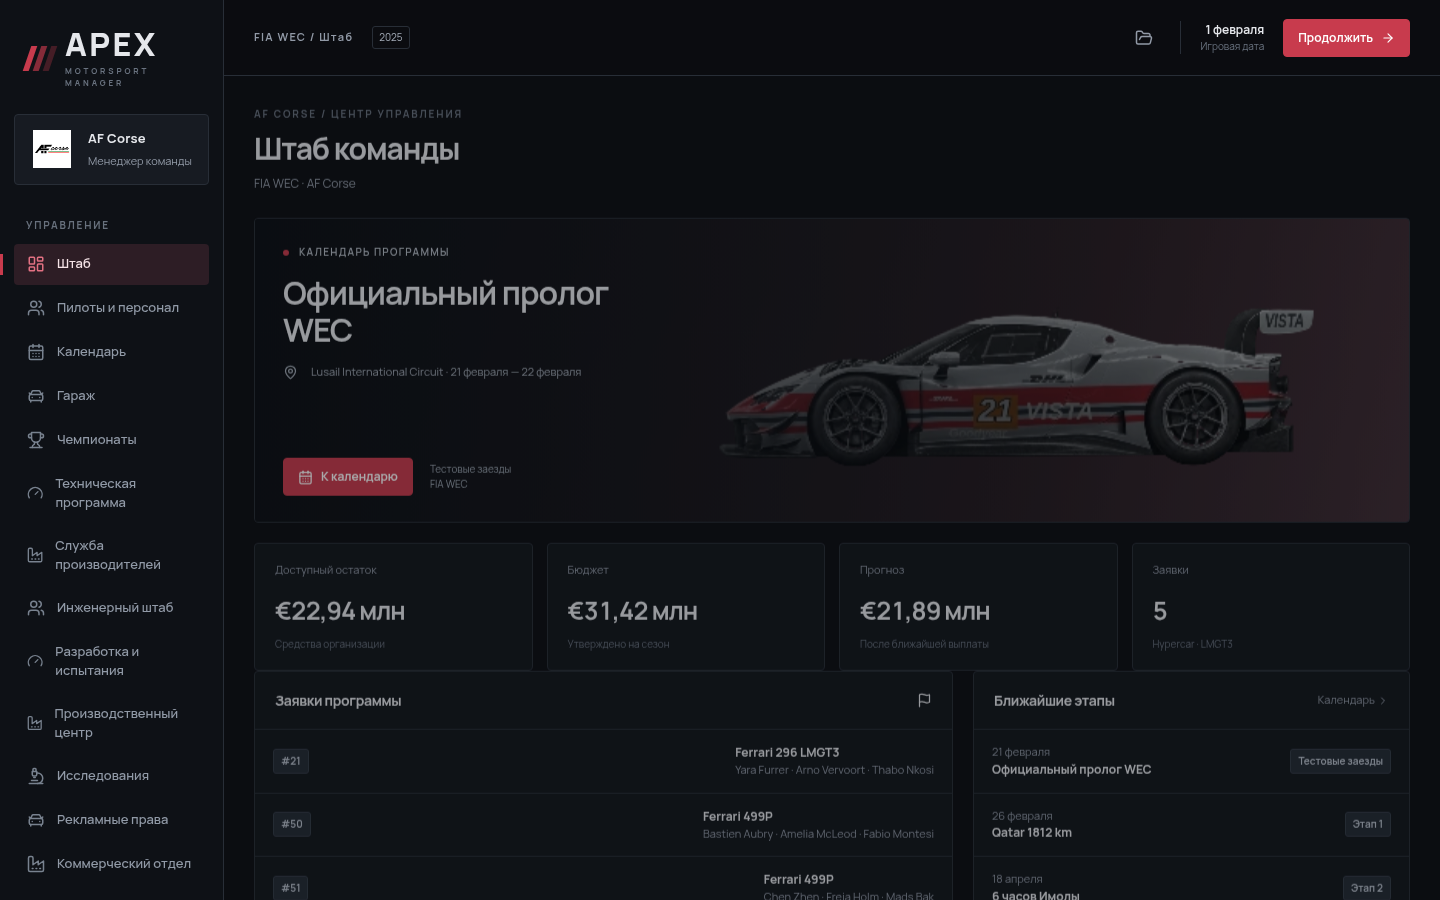
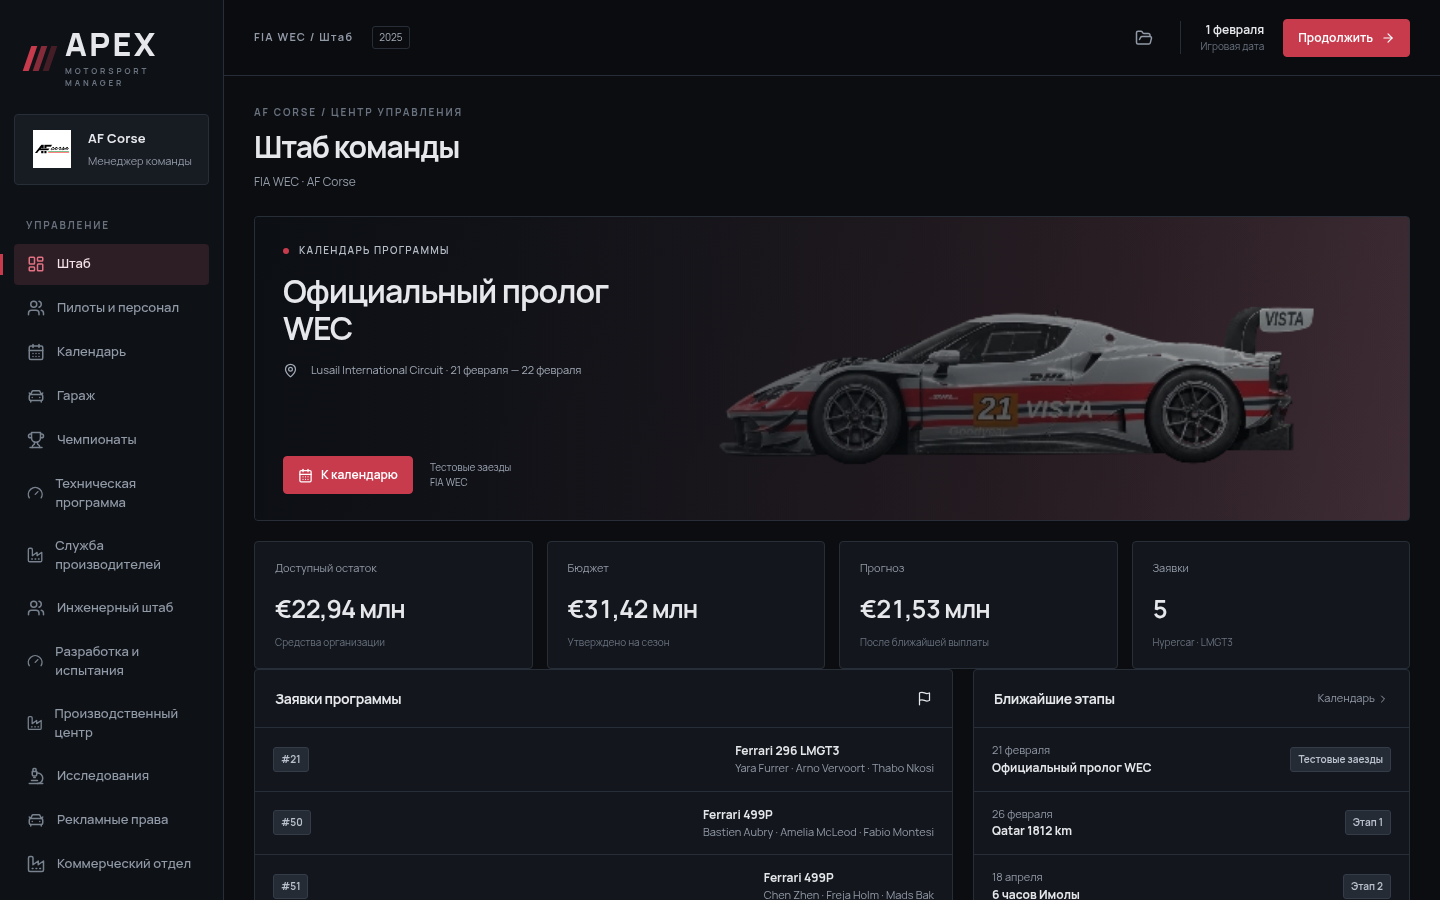
Align racing retainers, junior allowances and market offers with each series

diff --git a/frontend/tests/personnel.spec.ts b/frontend/tests/personnel.spec.ts
@@ -3,6 +3,7 @@ import { expect, test } from '@playwright/test'
 import { join } from 'node:path'
 
 test('Рынок, сравнение и переход пилота GT на свободное место Formula', async ({ page }, info) => {
+  test.setTimeout(90000)
   const errors: string[] = []
   page.on('pageerror', (e) => errors.push(e.message))
   const world = await (await page.request.get('/api/world')).json()
@@ -17,6 +18,11 @@ test('Рынок, сравнение и переход пилота GT на св
   const incumbent = world.names[world.entries['f1-4'].crew[0]]
   const dialog = page.getByRole('dialog')
   const artist = dialog.locator('image[data-layer="appearance"]').first()
+  async function advance() {
+    const response = page.waitForResponse(r => r.url().endsWith('/commands') && r.request().method() === 'POST')
+    await page.getByRole('button', { name: 'Продолжить' }).click()
+    expect((await response).ok()).toBe(true)
+  }
   async function evidence(view: string) {
     await page.evaluate(() => document.fonts.ready)
     expect(await page.evaluate(() => document.documentElement.scrollWidth)).toEqual(
@@ -67,7 +73,7 @@ test('Рынок, сравнение и переход пилота GT на св
   await evidence('terms')
   await dialog.getByRole('button', { name: 'Отправить предложение' }).click()
   await expect(page.locator('.staff-offer')).toContainText('На рассмотрении')
-  await page.getByRole('button', { name: 'Продолжить' }).click()
+  await advance()
   await expect(page.locator('.staff-offer')).toContainText('Встречные условия')
   await page.getByRole('button', { name: 'Рассмотреть условия' }).click()
   await dialog.getByRole('button', { name: 'Подписать договор' }).click()
@@ -79,7 +85,7 @@ test('Рынок, сравнение и переход пилота GT на св
   await expect(dialog.locator('image[data-layer="fitted-fabric"]')).toHaveAttribute('href', oldKit!)
   await expect(dialog).toContainText('ABT Sportsline')
   await page.keyboard.press('Escape')
-  await page.getByRole('button', { name: 'Продолжить' }).click()
+  await advance()
   await page.getByRole('button', { name: 'Состав', exact: true }).click()
   await page.getByLabel('Найти человека').fill(name)
   await page.getByRole('button', { name: new RegExp(name) }).click()

diff --git a/backend/opening/workforce.py b/backend/opening/workforce.py
@@ -132,6 +132,55 @@ def secondary_seats(state, world):
             pool.remove(chosen)
 
 
+def race_salary(state, person, seat, negotiated):
+    """Monthly guaranteed retainer, separate from seat backing and race bonuses."""
+    if person["position"] != "driver" or not seat.get("entry", True):
+        return negotiated
+    # A junior retainer is a racing allowance. Family, academy and sponsor
+    # contributions are booked separately to the racing operator.
+    junior_share = {
+        "kart-okj": 2,
+        "kart-ok": 3,
+        "f4-it": 8,
+        "f4-es": 8,
+        "f4-gb": 8,
+        "freca": 15,
+        "f3": 26,
+        "f2": 52,
+    }
+    series = seat["series"]
+    if series in junior_share:
+        return max(100, negotiated * junior_share[series] // 100)
+    if series not in ("f1", "wec", "dtm"):
+        return negotiated
+    # The top class buys scarce race seats at a different scale from GT and
+    # endurance. Reputation and driving experience affect an individual's market.
+    base_eur, premium = {"f1": (55000, 82), "wec": (5500, 4), "dtm": (4500, 3)}[
+        seat["series"]
+    ]
+    standing = max(
+        0,
+        person["skills"]["Темп"]
+        + person["reputation"]
+        + min(25, person["experience"])
+        - 103,
+    )
+    share = min(
+        130,
+        max(
+            74,
+            state["accounts"][seat["org"]]["budget_cents"]
+            // (125000000 if seat["series"] == "f1" else 14000000),
+        ),
+    )
+    if series == "wec" and seat.get("entry"):
+        from ..catalog import lineup_for
+
+        if lineup_for(state)["entries"][seat["entry"]]["category"] == "LMGT3":
+            share = share * 55 // 100
+    return (base_eur + premium * standing * standing) * share + negotiated
+
+
 def contracts_and_people(state, world):
     varied_profiles(state, world)
     secondary_seats(state, world)
@@ -164,6 +213,7 @@ def contracts_and_people(state, world):
                 * (50 + p["reputation"] // 2 + min(28, p["experience"]) + n % 38)
                 // 100
             )
+            row["salary_cents"] = race_salary(state, p, seat, row["salary_cents"])
             row["buyout_cents"] = (
                 0
                 if role == "owner"

diff --git a/backend/employment.py b/backend/employment.py
@@ -112,9 +112,16 @@ def ask(state, catalog, p, seat):
             interest += 70 - mandate["satisfaction"]
         if mandate["goal"] != p["management"]["style"]:
             interest += 20
-    return max(
+    demand = max(
         10000, (profile["rating"] * 45 + interest * 6 + p["reputation"] * 8) * 100
     )
+    from .opening import VERSION
+
+    if state.get("opening") == VERSION:
+        from .opening.workforce import race_salary
+
+        return race_salary(state, p, seat, demand)
+    return demand
 
 
 def intersects(row, start, end):

diff --git a/tests/opening_review.py b/tests/opening_review.py
@@ -100,6 +100,9 @@ def review(state, world):
         entrants = {r["person"] for a, r in roster if a["entry"]}
         per_series[series] = dict(
             main=len(entrants),
+            race_pay_cents=amounts(
+                r["salary_cents"] for seat, r in roster if seat["entry"]
+            ),
             funded=len(entrants & {f["person"] for f in funding}),
             hierarchy=distribution(
                 r.get("driver_status", a.get("duty") or "equal") for a, r in roster

diff --git a/docs/issue-60/runs.md b/docs/issue-60/runs.md
@@ -4,23 +4,23 @@
 
 | Роль | Seed | Команды | Остаток всех организаций, € | Минимальный остаток, € | Выплаченные обязательства | Ожидающие платежи |
 | --- | ---: | ---: | ---: | ---: | ---: | ---: |
-| Менеджер McLaren | 42 | 17 | 2 020 983 707 | 302 688 | 3 274 | 3 447 |
-| Владелец AF Corse | 71 | 14 | 2 009 071 182 | 314 315 | 3 279 | 3 453 |
-| Производитель SADEV | 123 | 15 | 2 012 483 992 | 372 145 | 3 283 | 3 452 |
+| Менеджер McLaren | 42 | 17 | 1 997 140 076 | 311 548 | 3 274 | 3 447 |
+| Владелец AF Corse | 71 | 14 | 1 985 167 713 | 323 175 | 3 279 | 3 453 |
+| Производитель SADEV | 123 | 15 | 1 988 644 103 | 382 914 | 3 283 | 3 452 |
 
 
 | Seed | Зарплаты, € | Инфраструктура, € | Поставки, € | Инженерия, € | Производство, € | Исследования / отчёты | Проекты разработки | Партии |
 | ---: | ---: | ---: | ---: | ---: | ---: | ---: | ---: | ---: |
-| 42 | 206 268 869 | 2 394 281 | 37 496 114 | 1 021 890 | 1 004 806 | 341 / 322 | 284 | 389 |
-| 71 | 204 521 588 | 2 383 485 | 37 496 114 | 1 035 760 | 1 061 825 | 343 / 325 | 285 | 415 |
-| 123 | 203 388 247 | 2 382 245 | 37 496 114 | 1 034 040 | 1 058 949 | 342 / 323 | 289 | 410 |
+| 42 | 230 108 442 | 2 394 281 | 37 496 114 | 1 021 890 | 1 004 806 | 341 / 322 | 284 | 389 |
+| 71 | 228 420 998 | 2 383 485 | 37 496 114 | 1 035 760 | 1 061 825 | 343 / 325 | 285 | 415 |
+| 123 | 227 224 077 | 2 382 245 | 37 496 114 | 1 034 040 | 1 058 949 | 342 / 323 | 289 | 410 |
 
 
 | Seed | Взносы за места, € | Проценты, € | Основной долг, € | Коммерческие расходы, € | Отменённые платежи |
 | ---: | ---: | ---: | ---: | ---: | ---: |
-| 42 | 915 580 | 378 674 | 2 883 763 | 1 067 313 | 167 |
-| 71 | 887 700 | 377 261 | 2 831 679 | 1 028 943 | 159 |
-| 123 | 915 580 | 384 112 | 2 894 558 | 1 086 042 | 159 |
+| 42 | 915 580 | 378 674 | 2 883 763 | 1 153 274 | 167 |
+| 71 | 887 700 | 377 261 | 2 831 679 | 1 114 453 | 159 |
+| 123 | 915 580 | 384 112 | 2 894 558 | 1 171 361 | 159 |
 
 Суммы — валовые расходы организаций по указанной категории, округлённые до целых евро. Платежи между клиентом и производителем на уровне мира переходят из одного кошелька в другой. Заводские поставки имеют нулевую цену. У игроков отсутствовали ручные инженерные заказы. Вся приведённая работа запущена автономными службами. При старте число отчётов, измерений и гоночных результатов равно нулю.
 
@@ -29,6 +29,6 @@
 В браузере для трёх ролей открыты 19 разделов при каждом из двух размеров. На 114 открытиях не было необработанных исключений JavaScript, ответов 5xx или горизонтального переполнения страницы. Разделы учитывают полномочия роли. Во время приёмки обнаружены потеря имени заявочного бренда в сводке, невозможность планировать следующее назначение консультанта, ошибочные ожидания пустой базы в старых сценариях и конкуренция за запись SQLite во время календарного перехода. Регрессионные проверки используют реальную карьеру и действующие договоры.
 
 
[2 lines of base64/hex data omitted]
 
 Команда `uv run --locked python -m tests.opening_world manager --all-starts` создаёт отдельную базу для каждого доступного сочетания организации и серии, загружает карьеру и проверяет техническую программу. Для `manufacturer` проверяется доступность продуктов, для `owner` — назначение и выбранная программа. Контрольные суммы отражают точный сценарий создания, имя и роль входят в архив.

diff --git a/docs/issue-60/review.md b/docs/issue-60/review.md
@@ -25,10 +25,10 @@
 | Операторы с коммерческим договором | 43 | 98 |
 | Пилоты с персональным рекламным договором | 0 | 71 |
 | Производители с рекламными договорами | 5 | 16 |
-| Цели правления команд | development 36 · economy 32 · performance 30 | development 24 · economy 44 · performance 12 · technical 18 |
-| Приоритет поколения во всех организациях | balanced 56 · current 88 | balanced 56 · current 56 · next 32 |
-| Делегирование инженерному штабу | full 143 · manual 1 | full 63 · manual 1 · partial 80 |
-| Мандат инженерного штаба | balanced 144 | balanced 44 · knowledge 88 · readiness 12 |
+| Цели правления команд | development 36 · economy 32 · performance 30 | development 25 · economy 41 · performance 13 · technical 19 |
+| Приоритет поколения во всех организациях | balanced 56 · current 88 | balanced 57 · current 54 · next 33 |
+| Делегирование инженерному штабу | full 143 · manual 1 | full 66 · manual 1 · partial 77 |
+| Мандат инженерного штаба | balanced 144 | balanced 41 · knowledge 90 · readiness 13 |
 
 Короткий договор заканчивается в первые 190 дней, сезонный — в пределах года, многолетний — позднее. Бессрочные назначения относятся к собственникам и игроку. Дата окончания договора основного пилота учитывает календарь соревнований. У одиночной машины и у всех членов экипажа WEC сохраняется равный статус. Количество вторых мест может превышать количество первых в команде с тремя и более заявками.
 
@@ -51,6 +51,22 @@
 | freca | 30 | 17 | 17 | equal 19 · first 4 · second 7 |
 | kart-ok | 98 | 73 | 53 | equal 36 · first 10 · second 52 |
 | kart-okj | 89 | 62 | 41 | equal 21 · first 13 · second 55 |
+
+Зарплата основного пилота учитывает серию, навыки, бюджет программы, опыт и репутацию. В младших формулах и картинге выплачиваются стипендии. Переговоры на кадровом рынке используют ту же шкалу сумм. Таблица охватывает основные гоночные места, округление вниз до целого евро.
+
+| Чемпионат | Месячный оклад или стипендия, € · минимум | Медиана (верхняя центральная) | Максимум |
+| --- | ---: | ---: | ---: |
+| f1 | 218 829 | 566 593 | 1 108 950 |
+| f2 | 2 758 | 3 460 | 4 152 |
+| f3 | 1 120 | 1 525 | 1 995 |
+| dtm | 16 915 | 25 039 | 42 522 |
+| wec | 12 325 | 31 880 | 71 518 |
+| f4-it | 300 | 435 | 568 |
+| f4-gb | 316 | 416 | 545 |
+| f4-es | 299 | 423 | 532 |
+| freca | 567 | 795 | 1 049 |
+| kart-ok | 68 | 139 | 209 |
+| kart-okj | 47 | 89 | 145 |
 
 ## Академии и кадровый рынок
 
